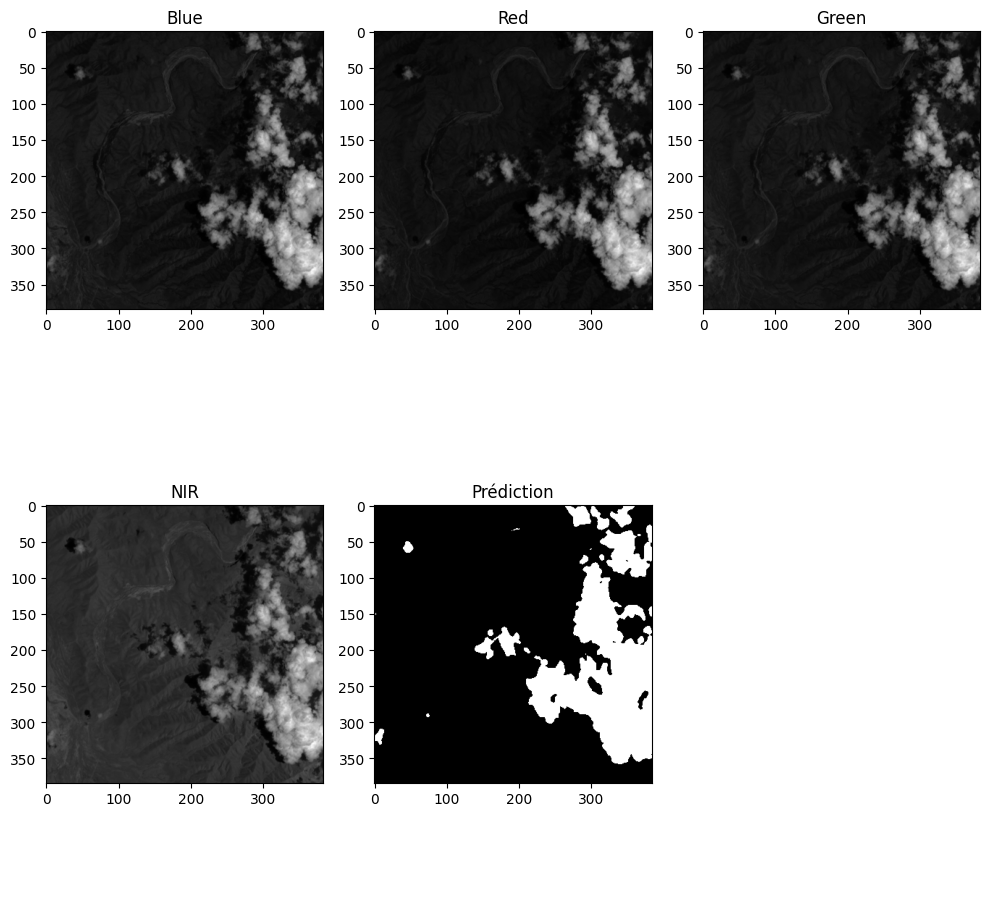
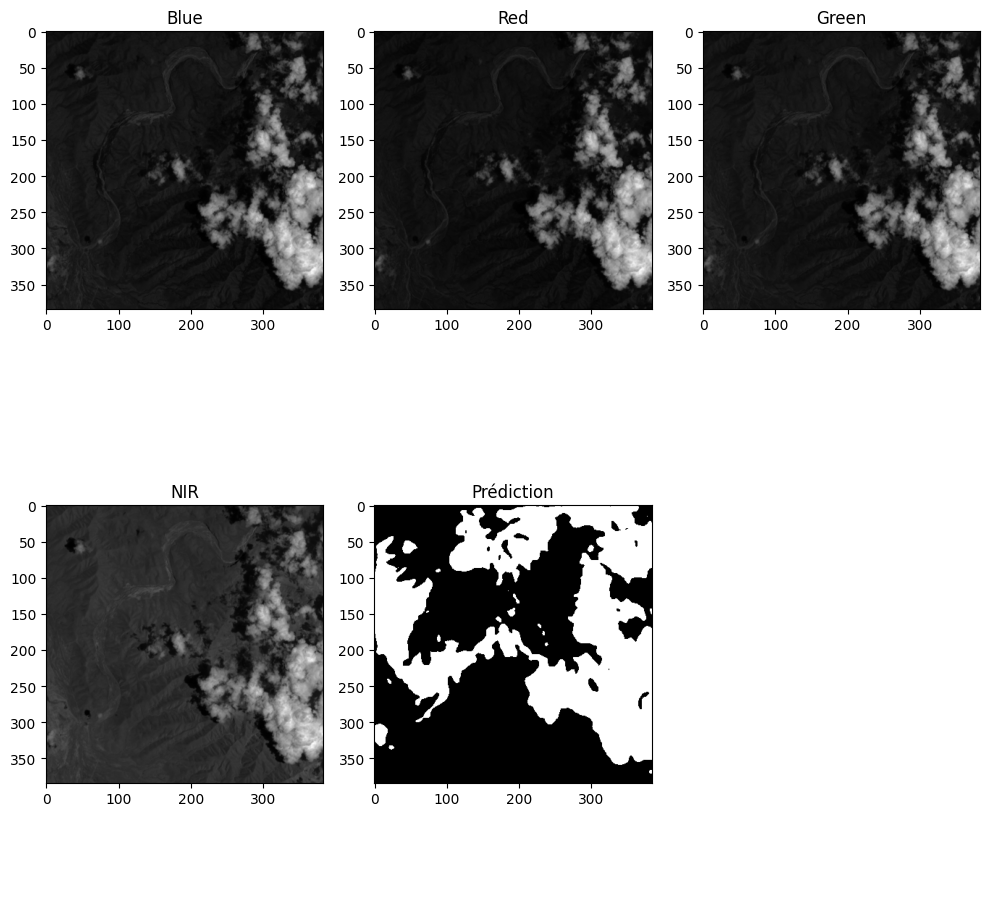
feat: added normalization

Changed region(s): [[0.364, 0.5588, 0.6673, 0.8071], [0.364, 0.8071, 0.3943, 0.8381]]

diff --git a/unet.py b/unet.py
@@ -3,7 +3,7 @@ import torch.nn as nn
 
 from unet_parts import DownSample, UpSample, DoubleConv
 
-class Unet(nn.Module):
+class Unet_31M(nn.Module):
     def __init__(self, in_channels, num_classes):
         super().__init__()
         self.down1 = DownSample(in_channels, 64)
@@ -34,6 +34,36 @@ class Unet(nn.Module):
         up_4 = self.up4(up_3, down_1)
 
         out=self.out(up_4)
+
+        return out
+    
+class Unet(nn.Module):
+    def __init__(self, in_channels, num_classes):
+        super().__init__()
+        self.down1 = DownSample(in_channels, 64)
+        self.down2 = DownSample(64, 128)
+        self.down3 = DownSample(128, 256)
+
+        self.bottleneck = DoubleConv(256, 512)
+
+        self.up1 = UpSample(512, 256)
+        self.up2 = UpSample(256, 128)
+        self.up3 = UpSample(128, 64)
+
+        self.out = nn.Conv2d(64, out_channels=num_classes, kernel_size=1)
+    
+    def forward(self, x):
+        down_1, p1 = self.down1(x)
+        down_2, p2 = self.down2(p1)
+        down_3, p3 = self.down3(p2)
+
+        b=self.bottleneck(p3)
+
+        up_1 = self.up1(b, down_3)
+        up_2 = self.up2(up_1, down_2)
+        up_3 = self.up3(up_2, down_1)
+
+        out=self.out(up_3)
 
         return out
 

diff --git a/unet_parts.py b/unet_parts.py
@@ -7,8 +7,10 @@ class DoubleConv(nn.Module):
         # On déclare conv_op qui est une fonction qui attends l'entrée: 2 convolutions séquentielles
         self.conv_op = nn.Sequential(
             nn.Conv2d(in_channels, out_channels, kernel_size=3, padding=1),
+            nn.BatchNorm2d(out_channels),
             nn.ReLU(inplace=True),
             nn.Conv2d(out_channels, out_channels, kernel_size=3, padding=1),
+            nn.BatchNorm2d(out_channels),
             nn.ReLU(inplace=True)
         )
     def forward(self, x):
@@ -30,10 +32,12 @@ class UpSample(nn.Module):
     def __init__(self, in_channels, out_channels):
         super().__init__()
         self.up = nn.ConvTranspose2d(in_channels, in_channels//2, kernel_size=2, stride=2)
+        self.bn = nn.BatchNorm2d(in_channels//2)
         self.conv = DoubleConv(in_channels, out_channels)
 
     def forward(self, x1, x2):
         x1 = self.up(x1)
+        x1 = self.bn(x1)
         x = torch.cat([x1, x2], 1)
 
         return self.conv(x)

diff --git a/main.py b/main.py
@@ -7,9 +7,9 @@ from unet import Unet
 from cloud_dataset import CloudDataset
 
 if __name__ == "__main__":
-    LEARNING_RATE = 3e-4
-    BATCH_SIZE = 16
-    EPOCHS = 20
+    LEARNING_RATE = 1e-4
+    BATCH_SIZE = 12
+    EPOCHS = 5
     DATA_PATH = "./dataset"
     MODEL_SAVE_PATH = "unet.pth"
 
@@ -44,6 +44,8 @@ if __name__ == "__main__":
             train_running_loss += loss.item()
             
             loss.backward()
+
+            #torch.nn.utils.clip_grad_norm_(model.parameters(), max_norm=1.0)
             optimizer.step()
 
         train_loss = train_running_loss / (idx + 1)
